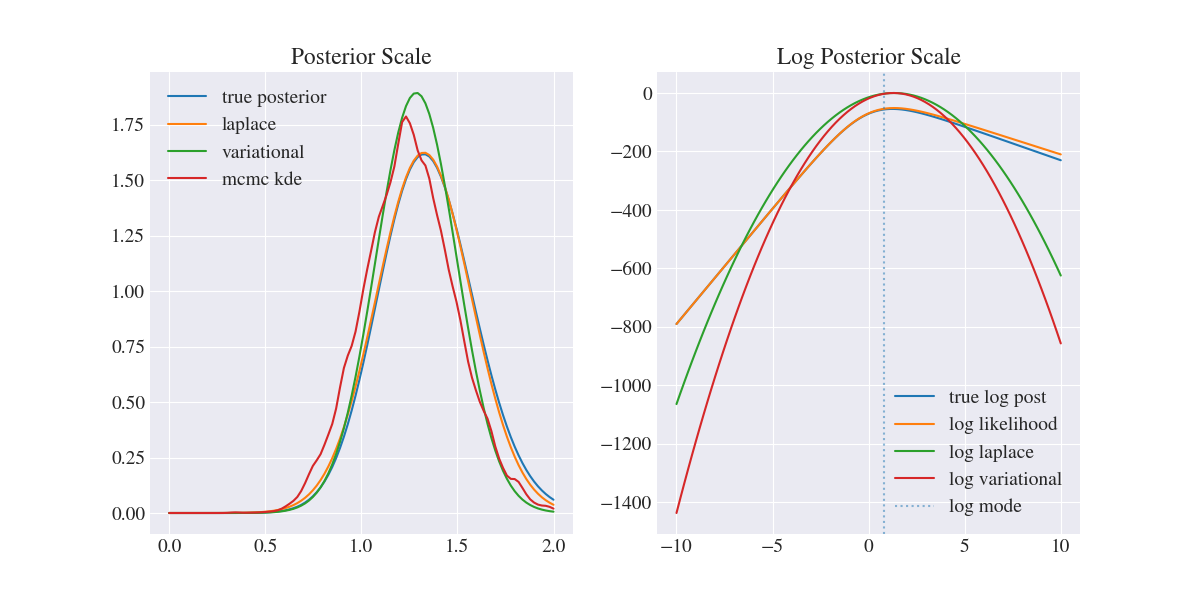
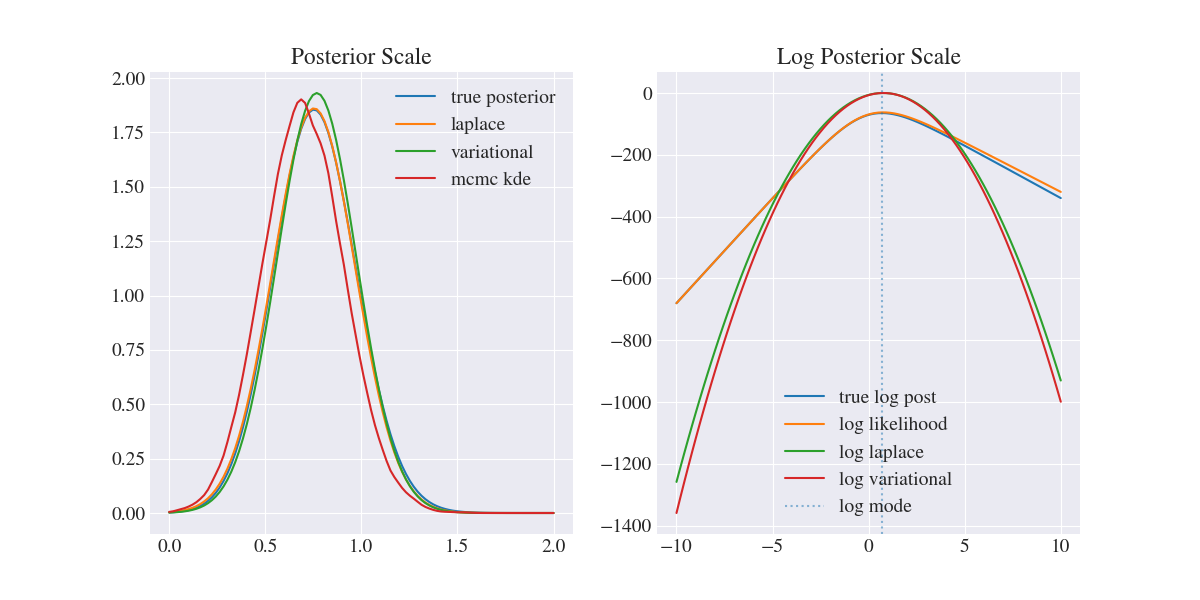
fixed log-posterior formula. Deleted old pictures as misleading

diff --git a/no_explanatory_variables.py b/no_explanatory_variables.py
@@ -19,7 +19,9 @@ class NoExplanatoryVariables:
     random variables. By taking the log we get the true log posterior
     distribution.
     """
-    def __init__(self, save=True):
+    def __init__(self, save=True, seed=1):
+        # save seed number for saving
+        self.seed = seed
         self.n = n
         # Mean of observations
         self.ybar = ybar
@@ -39,19 +41,33 @@ class NoExplanatoryVariables:
         self.ar = None  # Acceptance rate
         # Whether to save images or not
         self.save = save
+        # scale factor
+        self.mcmc_scale_factor = None
+        # kde
+        self.kde = None
+        self.kde_scale = None
 
     def save_image(self, image_name):
         """Creates directory where we can save images."""
+        # create dir name. If kde_scale is given save based on that
+        dir_name = "n_{}_s_{}_sd_{}_sc_{:.2}".format(
+            self.n,
+            len(self.samples),
+            self.seed,
+            self.mcmc_scale_factor
+        )
+        if self.kde_scale is not None:
+            dir_name += "_k_{}".format(self.kde_scale)
+        # Try to save, but might need to create directory first
         try:
             plt.savefig("images/no_explanatory/{}/{}".format(
-                "n_{}_s_{}".format(self.n, len(self.samples)),
+                dir_name,
                 image_name)
             )
         except FileNotFoundError:
-            mkdir_p("images/no_explanatory/{}".format(
-                "n_{}_s_{}".format(self.n, len(self.samples))))
+            mkdir_p("images/no_explanatory/{}".format(dir_name))
             plt.savefig("images/no_explanatory/{}/{}".format(
-                "n_{}_s_{}".format(self.n, len(self.samples)),
+                dir_name,
                 image_name)
             )
         return
@@ -62,7 +78,8 @@ class NoExplanatoryVariables:
 
     def true_log_posterior(self, t):
         """Log of the true posterior"""
-        return t*self.a - (self.n + 2)*np.log(1 + np.exp(t))
+        return -np.log(beta(self.a, self.b)) \
+            + t*self.a - self.n*np.log(1 + np.exp(t))
 
     def log_likelihood(self, t):
         """log likelihood written in terms of theta. Corresponds to log
@@ -104,25 +121,32 @@ class NoExplanatoryVariables:
         """Log Variational distribution"""
         return log_normal_kernel(t, self.var_mean, self.var_sigma2)
 
-    def sample(self, s, b, t):
+    def sample(self, s, b, t, scale=1.0, kde_scale=None):
         """RWM algorithm"""
+        # save scale for plotting
+        self.mcmc_scale_factor = scale
         samples, ar = metropolis(
             p=self.true_log_posterior,
             z0=np.array([self.true_log_mode]),
             cov=1,
             n_samples=s,
             burn_in=b,
-            thinning=t
+            thinning=t,
+            scale=scale
         )
         self.samples = samples
         self.ar = ar
+        # find also KDE
+        self.kde = gaussian_kde(self.samples.flatten())
+        if kde_scale is not None:
+            self.kde_scale = kde_scale
+            self.kde.set_bandwidth(bw_method=kde_scale)
         print("MH acceptance rate: {:.3}".format(self.ar))
         return self.samples
 
     def mcmc_kde(self, t):
         """Can be called evaluate kde found on histogram of mcmc samples."""
-        kde = gaussian_kde(self.samples.flatten())
-        return kde.pdf(t)
+        return self.kde.pdf(t)
 
     def compare_approximations(self, n_min, n_max, n_step):
         """This function tries to compare Laplace approximation and
@@ -190,7 +214,7 @@ class NoExplanatoryVariables:
 
 
 if __name__ == "__main__":
-    n = 100
+    n = 100  # 100
     theta = 1
     y = np.random.binomial(n=1, p=sigmoid(theta), size=n)
     ybar = np.mean(y)
@@ -198,9 +222,9 @@ if __name__ == "__main__":
     x = np.linspace(0, 2, 100)
     x_log = np.linspace(-10, 10, 100)
     # Instantiate model with no explanatory variables
-    model = NoExplanatoryVariables()
+    model = NoExplanatoryVariables(save=True, seed=2)
     # Sample the model and get kde
-    samples = model.sample(100000, 500, 1)
+    samples = model.sample(s=100000, b=500, t=1, scale=0.25, kde_scale=0.15)
     # Plot
     fig, ax = plt.subplots(nrows=1, ncols=2, figsize=(12, 6))
     # Normal scale
@@ -212,7 +236,7 @@ if __name__ == "__main__":
     ax[0].set_title('Posterior Scale')
     # Log scale
     ax[1].plot(x_log, model.true_log_posterior(x_log), label='true log post')
-    ax[1].plot(x_log, model.log_likelihood(x_log), label='log likelihood')
+    # ax[1].plot(x_log, model.log_likelihood(x_log), label='log likelihood')
     ax[1].plot(x_log, model.log_laplace(x_log), label='log laplace')
     ax[1].plot(x_log, model.log_variational(x_log), label='log variational')
     ax[1].set_title('Log Posterior Scale')

diff --git a/utility_functions.py b/utility_functions.py
@@ -152,7 +152,7 @@ def round_matrix_to_symmetry(x, max_digits=7):
     return x.round(q_max), q_max
 
 
-def metropolis(p, z0, cov, n_samples=100, burn_in=0, thinning=1):
+def metropolis(p, z0, cov, n_samples=100, burn_in=0, thinning=1, scale=1.0):
     """
     Random-Walk Metropolis algorithm for a multivariate probability density.
 
@@ -171,6 +171,10 @@ def metropolis(p, z0, cov, n_samples=100, burn_in=0, thinning=1):
     :param thinning: If `thinning` > 1 then after applying burn_in we get
                      every <<thinning>> samples.
     :type thinning: int
+    :param scale: Extra parameter that can be used to scale the standard
+                  deviation that is found with grg rule. This can be useful
+                  when grg rule does not yield great results.
+    :type scale: float
     :return: `n_samples` samples from `p`.
     :rtype: np.array
     """
@@ -182,12 +186,12 @@ def metropolis(p, z0, cov, n_samples=100, burn_in=0, thinning=1):
     sample_list = np.zeros((tot, n_params))
     logu = np.log(np.random.uniform(size=tot))
     # Optimal scale
-    a = 2.38**2 / n_params
+    a = (2.38**2 / n_params)*scale
     if n_params >= 2:
         normal_shift = multivariate_normal.rvs(mean=np.zeros(n_params),
                                                cov=a*cov, size=tot)
     else:
-        normal_shift = norm.rvs(loc=0, scale=np.sqrt(a), size=tot)
+        normal_shift = norm.rvs(loc=0, scale=np.sqrt(a*cov), size=tot)
     for i in range(tot):
         # Sample a candidate from Normal(mu, sigma)
         cand = z + normal_shift[i]
